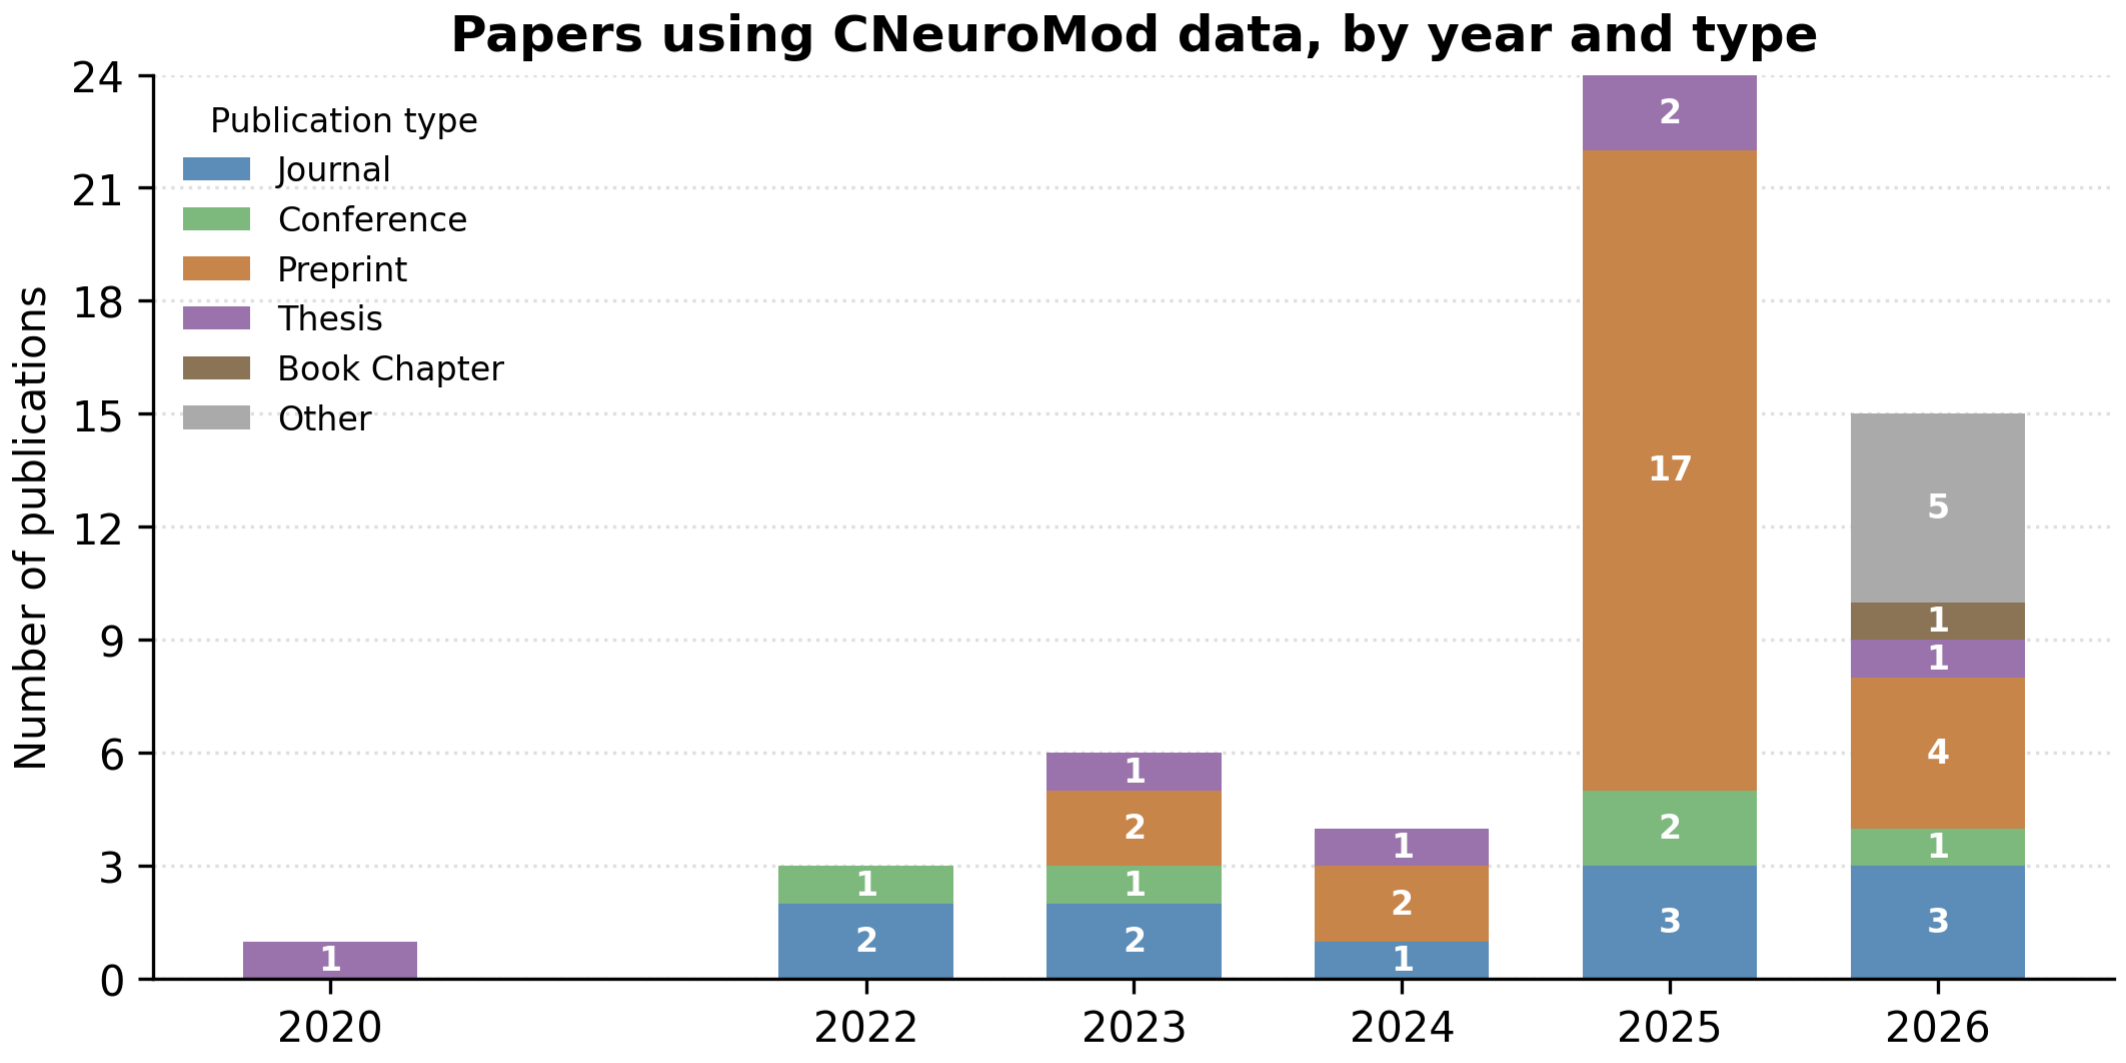
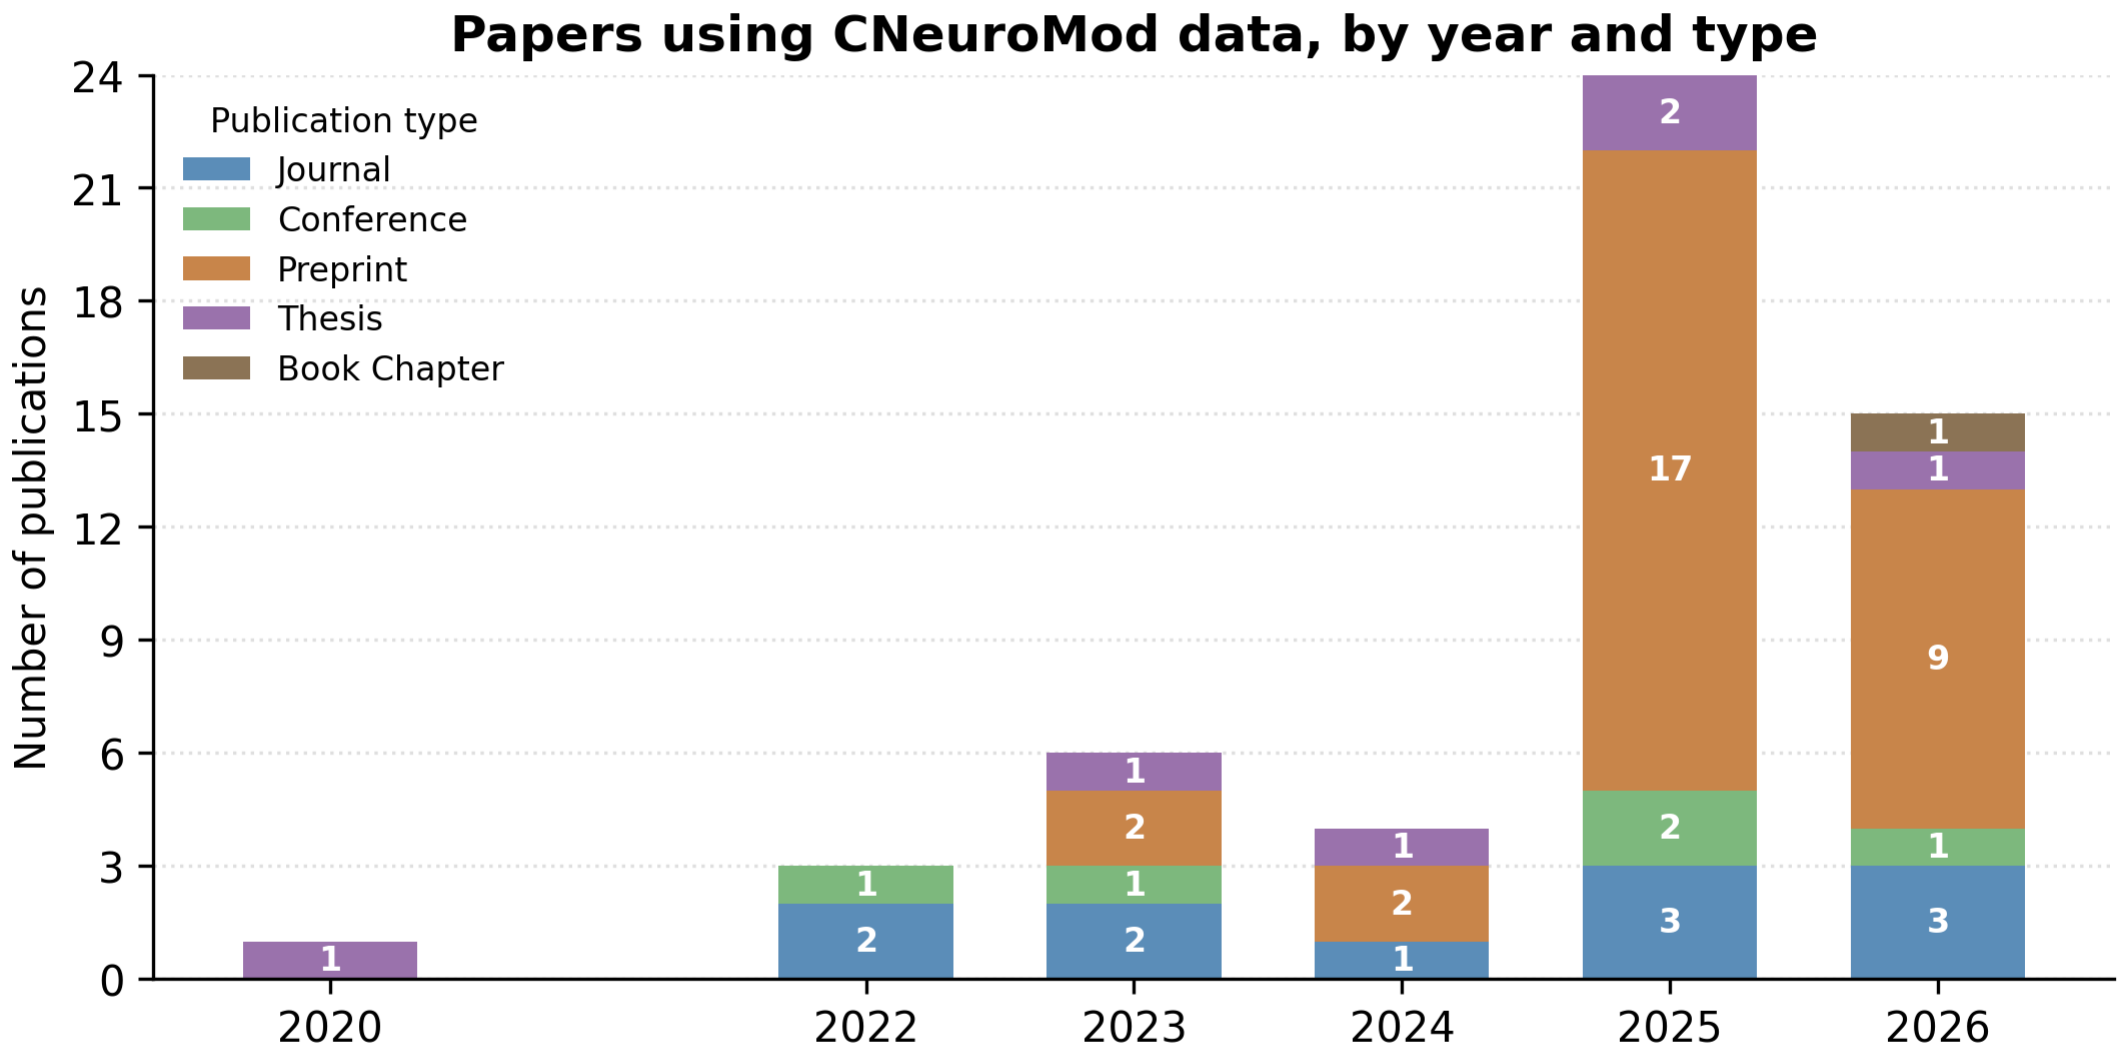
Classify arXiv @MISC entries as preprints
DOI-resolved arXiv records (as written by lit-propose) are @MISC with
publisher arXiv; they were counted as Other in the reuse figure.

Changed region(s): [[0.8692, 0.3725, 0.9624, 0.6519], [0.0621, 0.3725, 0.1863, 0.4036], [0.9003, 0.683, 0.9313, 0.714]]

diff --git a/analysis/citations.py b/analysis/citations.py
@@ -23,18 +23,22 @@ _TYPE_BY_ENTRY = {
 def classify_entry(entry_type: str, fields: dict) -> str:
     """Publication type of one entry: Journal, Preprint, Conference, Thesis, Book Chapter, Other.
 
-    Only ARTICLE entries need a closer look: reference managers file preprints,
-    theses and conference papers as articles, so the venue fields decide.
+    ARTICLE entries need a closer look: reference managers file preprints,
+    theses and conference papers as articles, so the venue fields decide. MISC
+    entries are preprints when the venue is a preprint server (DOI-resolved arXiv
+    records come as MISC with publisher arXiv), and Other otherwise.
     """
     entry_type = entry_type.upper()
     if entry_type in _TYPE_BY_ENTRY:
         return _TYPE_BY_ENTRY[entry_type]
-    if entry_type != "ARTICLE":
+    if entry_type not in ("ARTICLE", "MISC"):
         return "Other"
 
     venue = " ".join(fields.get(key, "") for key in ("journal", "institution", "publisher"))
     if _PREPRINT.search(venue):
         return "Preprint"
+    if entry_type == "MISC":
+        return "Other"
     if _THESIS.search(venue):
         return "Thesis"
     if _CONFERENCE.search(venue):

diff --git a/tests/test_citations.py b/tests/test_citations.py
@@ -52,6 +52,8 @@ def bib_path(tmp_path):
     ("INPROCEEDINGS", {}, "Conference"),
     ("INCOLLECTION", {}, "Book Chapter"),
     ("MISC", {}, "Other"),
+    ("MISC", {"publisher": "arXiv"}, "Preprint"),
+    ("MISC", {"publisher": "Zenodo"}, "Other"),
 ])
 def test_classify_entry(entry_type, fields, expected):
     assert classify_entry(entry_type, fields) == expected
